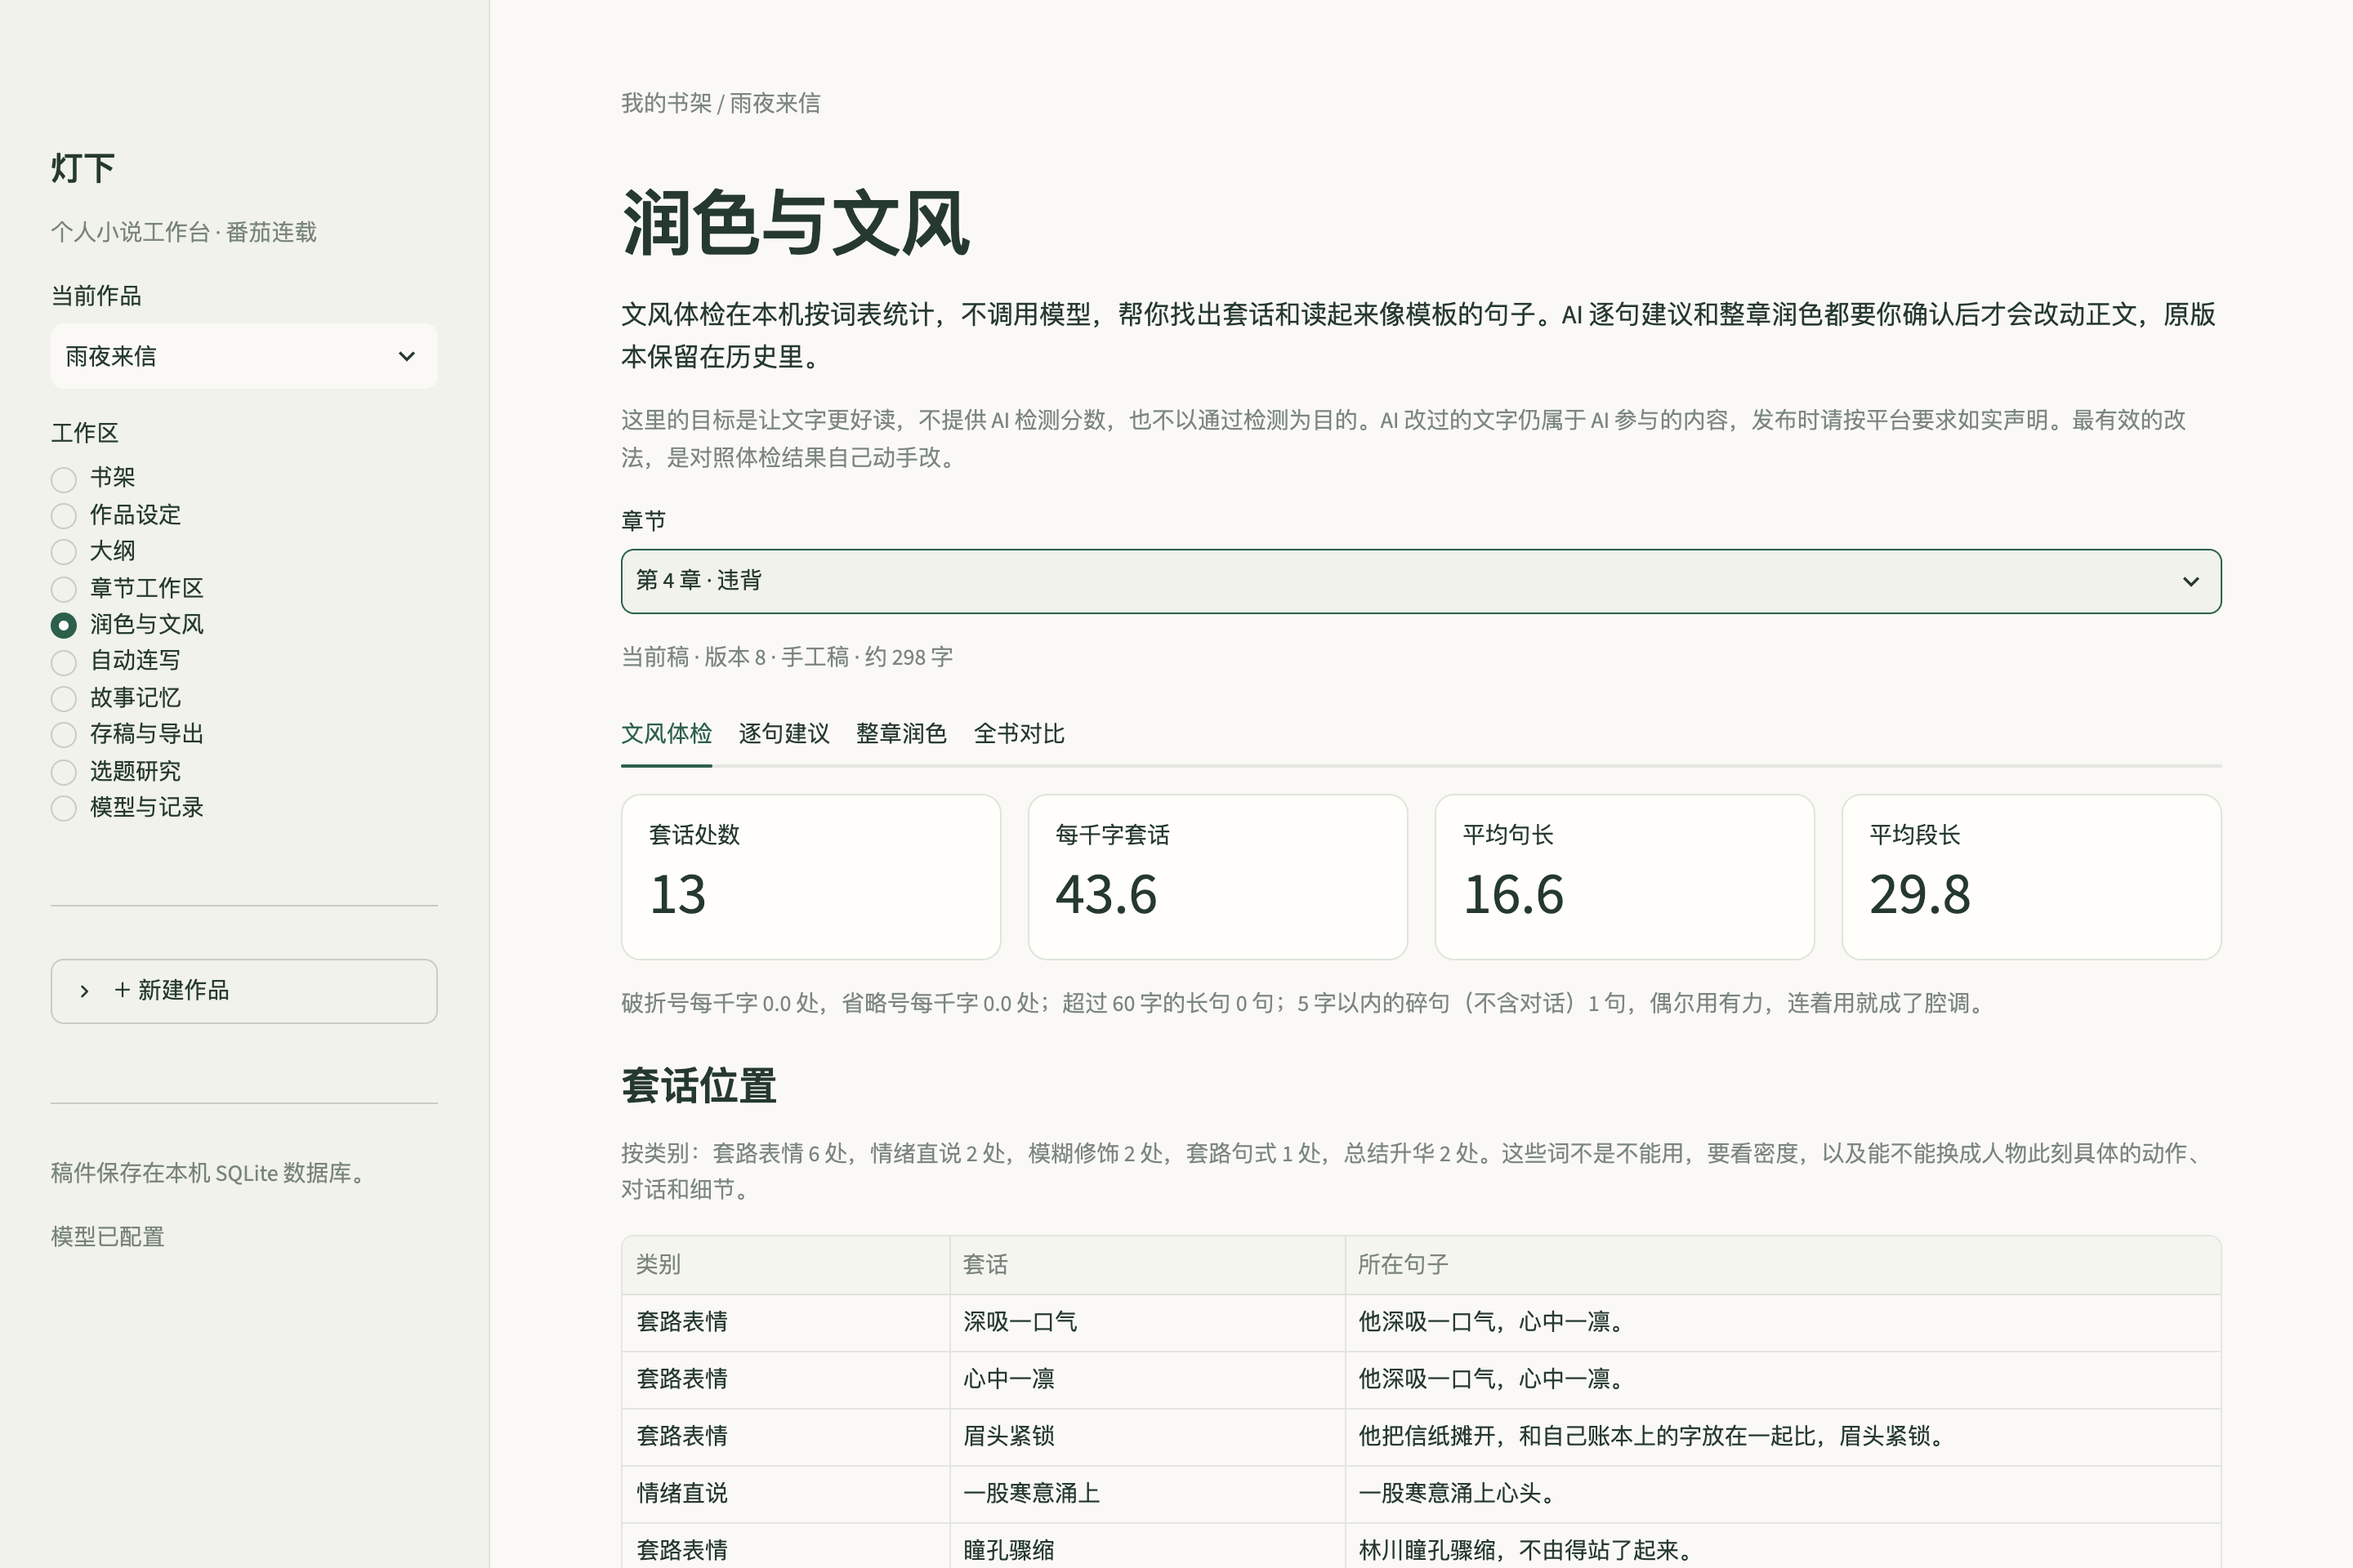
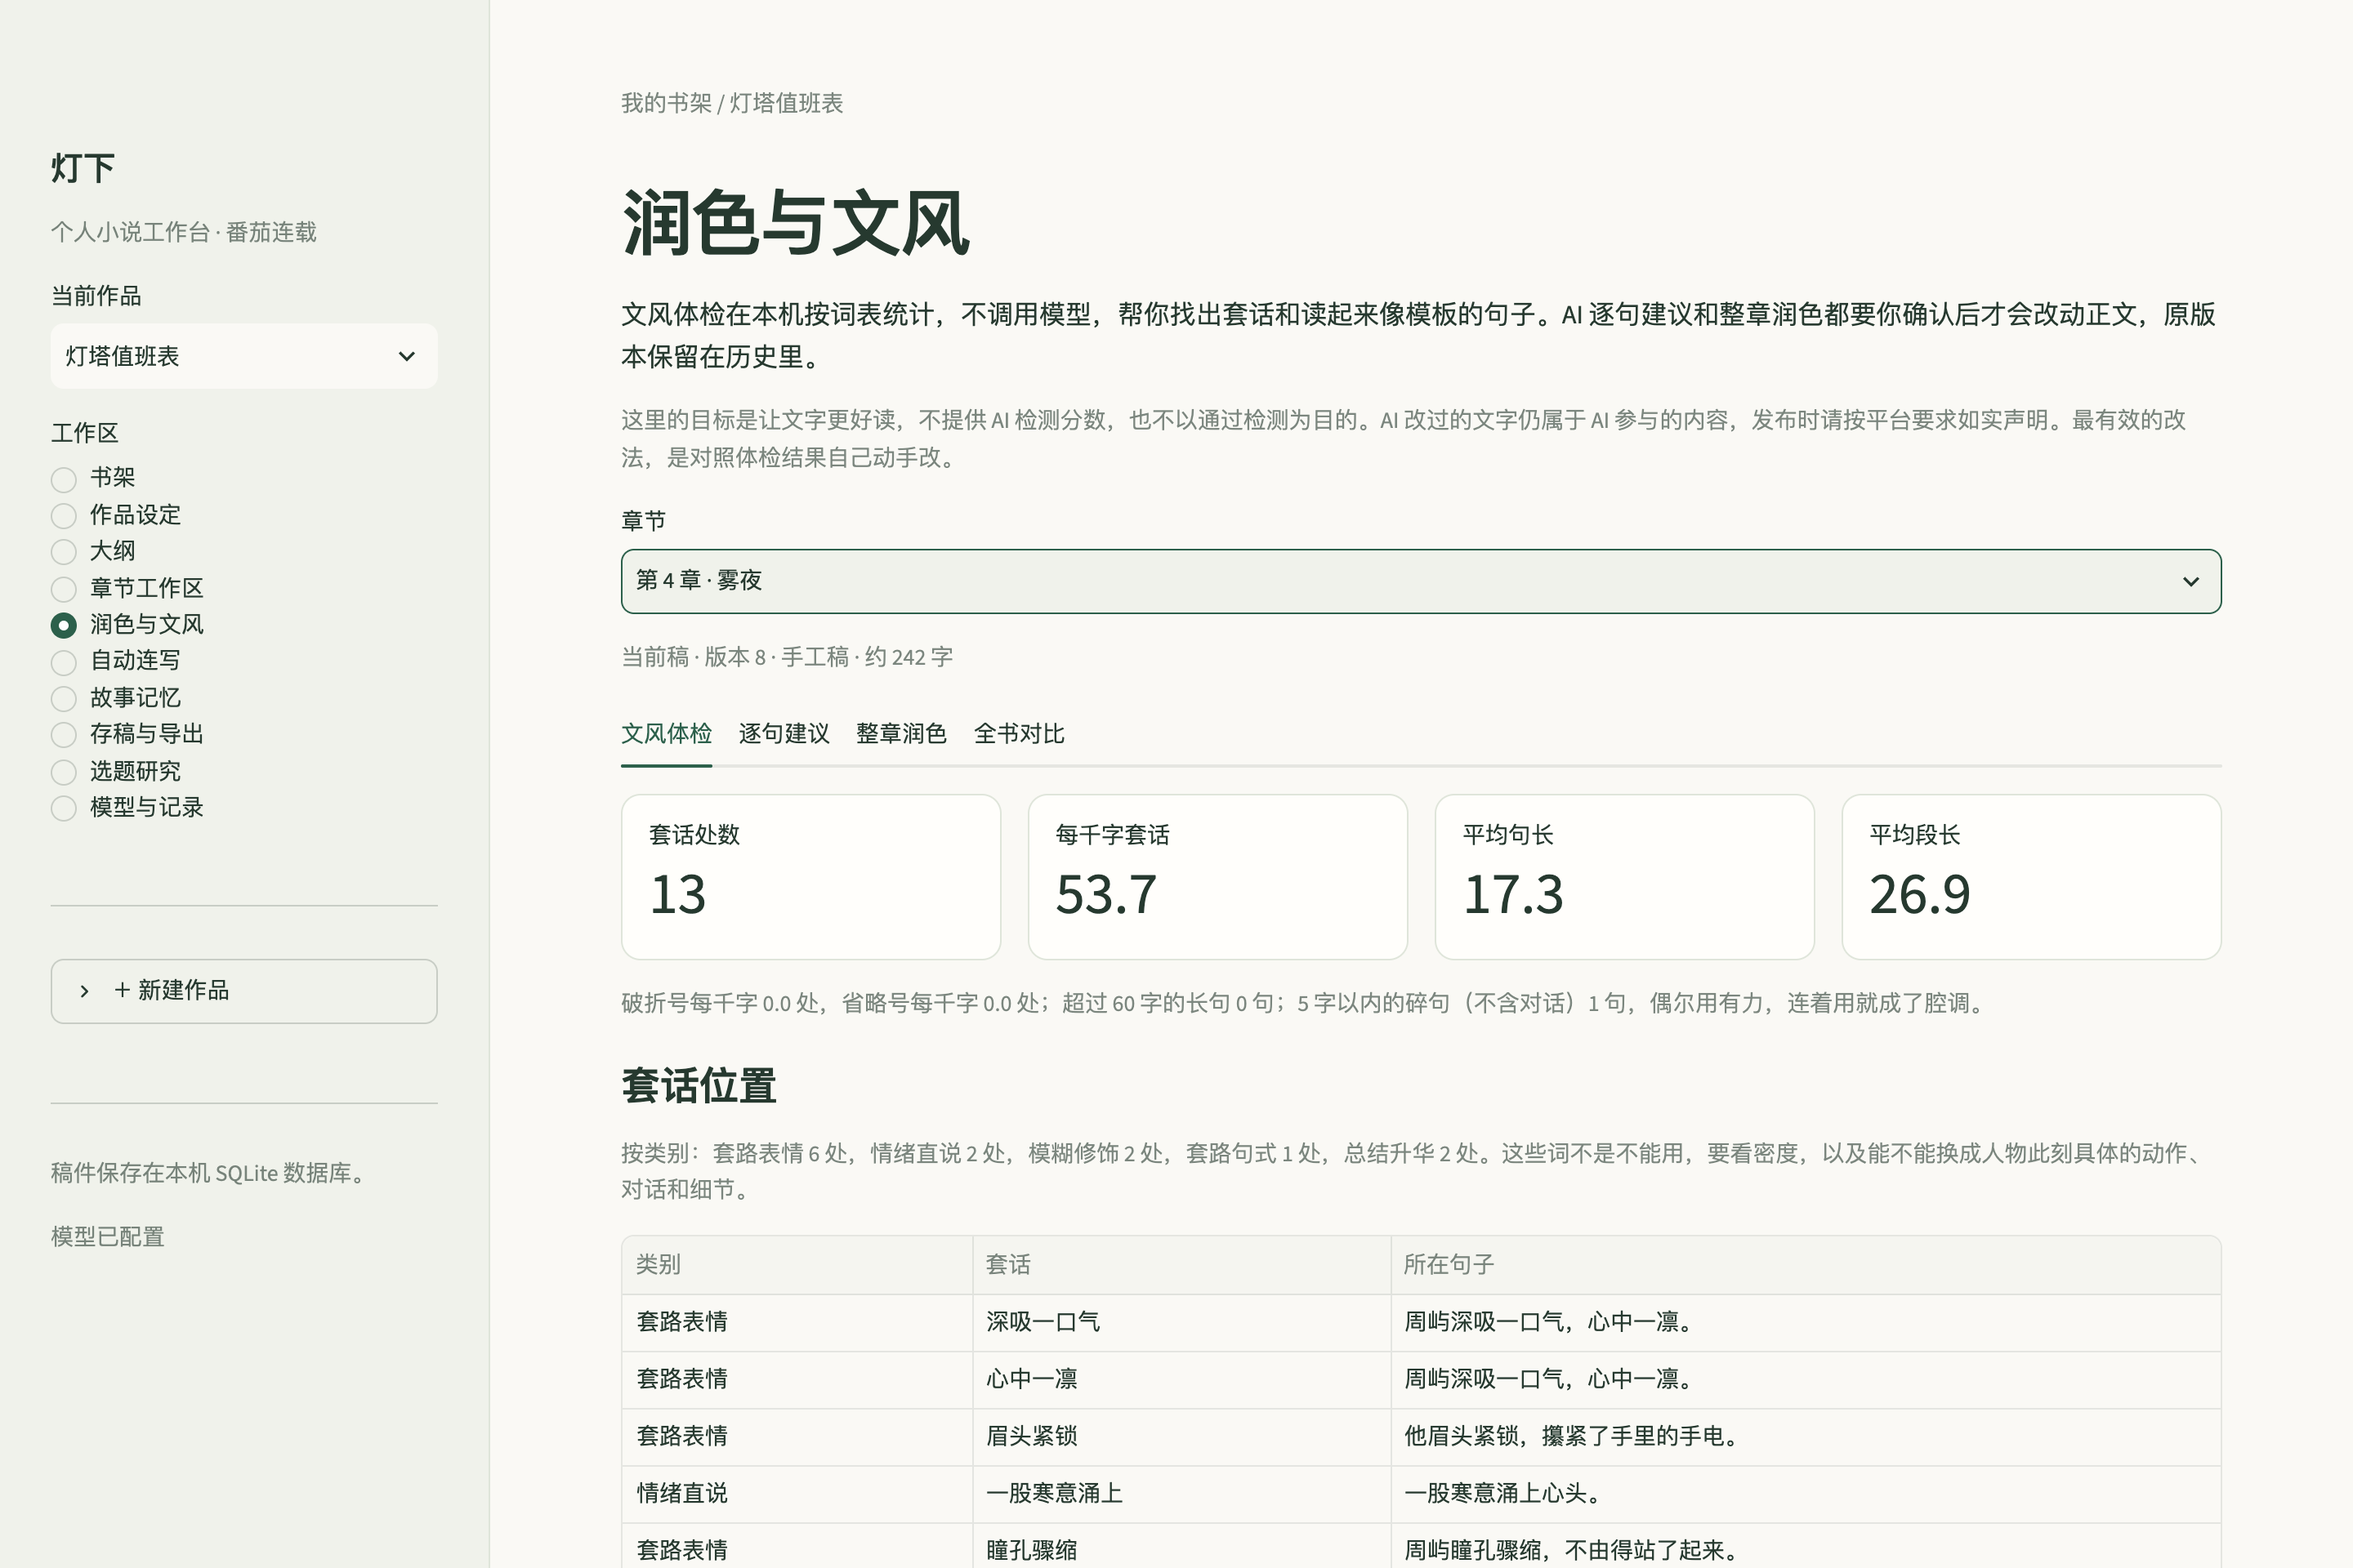
Leave missing shelf numbers blank and refresh screenshots with another demo book

diff --git a/app.py b/app.py
@@ -147,6 +147,11 @@ def save_editor(chapter_id):
         return False
 
 
+def number_text(value):
+    """表格里的数字转成文字，没有数据时留空，不显示 None；配合右对齐的文字列使用。"""
+    return '' if value is None else f'{value:g}'
+
+
 def show_shelf():
     st.title('书架')
     rows = shelf.overview(store)
@@ -155,8 +160,8 @@ def show_shelf():
                    '定稿字数（万）': round(r['chars'] / 10000, 1), '细纲到': r['last_beat'], '细纲领先': r['beats_ahead'],
                    '待审阅': r['auto_unreviewed'], '待复核': r['stale'], '已发布': r['published'],
                    '最近更新（UTC）': r['updated_at'][:16].replace('T', ' '),
-                   '最新在读': (r['latest_stats'] or {}).get('metrics', {}).get('在读人数')} for r in rows],
-                 hide_index=True, width='stretch')
+                   '最新在读': number_text((r['latest_stats'] or {}).get('metrics', {}).get('在读人数'))} for r in rows],
+                 hide_index=True, width='stretch', column_config={'最新在读': st.column_config.TextColumn(alignment='right')})
     titles = {r['book_id']: r['title'] for r in rows}
     a, b = st.columns([3, 1])
     picked = a.selectbox('打开作品', list(titles), format_func=titles.get, key='shelf_open', label_visibility='collapsed')
@@ -198,8 +203,11 @@ def show_shelf():
                          hide_index=True, width='stretch')
             for r in compared:
                 with st.expander(f'{r["title"]} 的历史记录'):
-                    st.dataframe([{'日期': s['recorded_on'], '已发布章数': s['published_chapters'], **s['metrics'], '备注': s['note']}
-                                  for s in shelf.stats(store, r['book_id'])], hide_index=True, width='stretch')
+                    st.dataframe([{'日期': s['recorded_on'], '已发布章数': number_text(s['published_chapters']),
+                                   **{name: number_text(s['metrics'].get(name)) for name in shelf.METRICS}, '备注': s['note']}
+                                  for s in shelf.stats(store, r['book_id'])], hide_index=True, width='stretch',
+                                 column_config={name: st.column_config.TextColumn(alignment='right')
+                                                for name in ('已发布章数', *shelf.METRICS)})
     with batch_tab:
         st.caption('依次给选中的每本书自动连写若干章，规则和单本“自动连写”相同；某本书不满足前提（比如有没定稿的章节）就跳过并说明原因。'
                    '每章约 1–1.5 分钟，运行期间不要关闭页面。')
@@ -567,7 +575,7 @@ def show_chapters():
     show_beat_progress(quiet=True)
     with st.expander('＋ 新建章节', expanded=not chapters):
         with st.form(f'new_chapter_{book_id}', clear_on_submit=True):
-            title = st.text_input('新章节标题', placeholder='例如：雨夜来信', key='new_chapter_title')
+            title = st.text_input('新章节标题', placeholder='例如：意外的访客', key='new_chapter_title')
             plan = st.text_area('本章计划', placeholder='本章发生什么？人物作出什么选择？结尾留下什么？', key='new_chapter_plan')
             if st.form_submit_button('创建章节', type='primary'):
                 try:

diff --git a/tests/test_store.py b/tests/test_store.py
@@ -13,7 +13,7 @@ def db(tmp_path):
 
 
 def story(db):
-    book = db.create_book('夜行灯', premise='一个修灯人寻找失踪的姐姐。')
+    book = db.create_book('夜行灯', premise='一个守夜人寻找失踪的姐姐。')
     chapter = db.create_chapter(book, '旧灯', '收到一封信')
     current = db.chapter(chapter)['current_revision_id']
     revision = db.save_revision(chapter, '旧灯', '收到一封信', '林川左臂受伤。', current)
@@ -21,18 +21,18 @@ def story(db):
 
 
 def finalize(db, book, chapter, revision, value='受伤'):
-    db.finalize(chapter, revision, '林川在修灯时受伤。',
+    db.finalize(chapter, revision, '林川在巡夜时受伤。',
                 [{'entity': '林川', 'attribute': '左臂', 'value': value}],
                 db.book(book)['context_version'])
 
 
 def test_persistence_and_non_destructive_restore(db):
     book, chapter, revision = story(db)
-    newer = db.save_revision(chapter, '雨夜', '寻找线索', '林川收起了信。', revision)
+    newer = db.save_revision(chapter, '夜巡', '寻找线索', '林川收起了地图。', revision)
     restored = db.restore(chapter, revision, newer)
     assert restored not in (revision, newer)
     reopened = Store(db.path)
-    assert reopened.revision(newer)['body'] == '林川收起了信。'
+    assert reopened.revision(newer)['body'] == '林川收起了地图。'
     assert reopened.revision(restored)['body'] == '林川左臂受伤。'
     assert reopened.chapter(chapter)['current_revision_id'] == restored
 
@@ -151,7 +151,7 @@ def test_settings_change_keeps_finalized_memory_usable(db):
     book, chapter, revision = story(db)
     finalize(db, book, chapter, revision)
     second = db.create_chapter(book, '次日', '')
-    db.update_book(book, title='夜行灯', premise='一个修灯人寻找失踪的姐姐。', genre='悬疑',
+    db.update_book(book, title='夜行灯', premise='一个守夜人寻找失踪的姐姐。', genre='悬疑',
                    bible='林川怕水。', style='', outline='姐姐在第十章出现。')
     assert db.memory(book)[0]['stale'] == 0
     assert db.context(second)['facts'][0]['value'] == '受伤'
@@ -160,7 +160,7 @@ def test_settings_change_keeps_finalized_memory_usable(db):
 def test_settings_change_still_rejects_candidates_generated_before_it(db):
     book, chapter, revision = story(db)
     candidate = db.add_candidate(chapter, '旧灯', '', 'AI 稿', revision, db.book(book)['context_version'])
-    db.update_book(book, title='夜行灯', premise='一个修灯人寻找失踪的姐姐。', genre='',
+    db.update_book(book, title='夜行灯', premise='一个守夜人寻找失踪的姐姐。', genre='',
                    bible='林川怕水。', style='', outline='')
     with pytest.raises(Conflict):
         db.adopt_candidate(chapter, candidate)

diff --git a/tests/test_app.py b/tests/test_app.py
@@ -27,8 +27,8 @@ def button(at, label):
 
 
 def new_book(at):
-    at.text_input('welcome_create_title').input('雨夜来信')
-    at.text_area('welcome_create_premise').input('修灯人收到一封没有署名的信。')
+    at.text_input('welcome_create_title').input('示例作品')
+    at.text_area('welcome_create_premise').input('测试用的故事创意。')
     button(at, '创建作品').click().run()
     assert not at.exception
 
@@ -48,7 +48,7 @@ def test_create_edit_finalize_continue_export_and_reopen(app):
     assert not at.exception
     assert db.chapter(1)['finalized_revision_id']
     at.text_input('new_chapter_title').input('来客')
-    at.text_area('new_chapter_plan').input('一个陌生人来到修灯铺。')
+    at.text_area('new_chapter_plan').input('一个陌生人来到店里。')
     button(at, '创建章节').click().run()
     assert not at.exception
     assert at.selectbox('chapter_pick_1').value == 2

diff --git a/docs/project.md b/docs/project.md
@@ -95,6 +95,7 @@
 - 2026-10-04 多开管理：总览、平台数据保存与校验、对比、批量连写共七项测试，界面一项，127 项测试通过。
 - 2026-10-05 润色与文风：体检、建议解析与匹配、采用与冲突、整章润色、差异对齐共十六项测试，界面一项（并把新页面加入各页渲染测试），144 项测试通过。真实数据：最初的词表（嘴角勾起、仿佛、一丝、深吸一口气等）在《夜班守则》10 章约 2.5 万字里一处都没命中，deepseek-flash 的写法本来就简短具体；它的腔调是连续的几字碎句和“没动”“没回头”“没出声”式的否定描写。据此加了否定描写、“顿了顿”规则和碎句统计：第 1–3 章碎句每章 7–9 句，自动连写的第 4–10 章 12–35 句。第 7 章真实生成逐句建议：47 秒，输出 1.1 万 tokens（大部分是思考），12 条全部能在正文中唯一匹配，主要是把否定描写换成具体动作；未采用，正文未改动。
 - 2026-10-07 公开仓库前的整理：README 加入界面截图（示例数据库，书目与正文为演示编写，榜单只显示分类合计）和 MIT 许可证。截图时发现两处显示问题并修正：题材热度在不对比时不再显示两列空的“变化”；逐句差异把夹在两处改动之间、不超过 2 个字的相同片段并入改动（原先“站了起来”会显示成“站 ~~了~~ 起来”，划掉的“了”像“子”）。新增一条差异断言，144 项测试通过。
+- 2026-10-07 书架总览的“最新在读”和平台数据历史表，没有数据的格子不再显示 None（改为右对齐的文字列，空值留空）。用户要把截图里的示例故事改写后投稿，截图改用另一本示例书重拍；测试数据与输入框提示里同一故事的书名和创意换成中性文字。144 项测试通过。
 - 依赖一致性检查通过；Python 编译检查与启动脚本语法检查通过。
 - 首版（2026-10-01）时真实 API 未调用；2026-10-02 起接入 DeepSeek deepseek-flash，真实试用的耗时与费用见上文各条。没有系统的写作质量测量。
 - 番茄自动发布与 AI 创作规则未完成账号级核验；当前导出不宣称平台审核通过。
